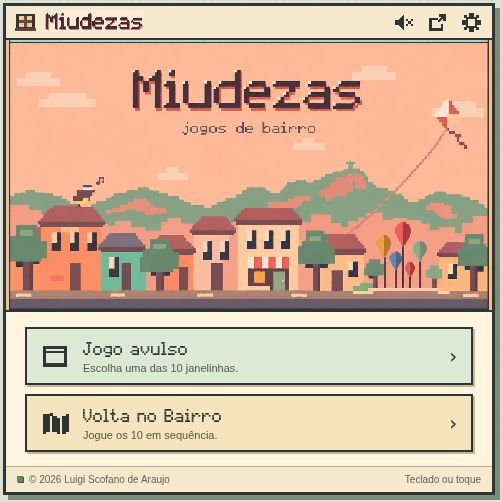
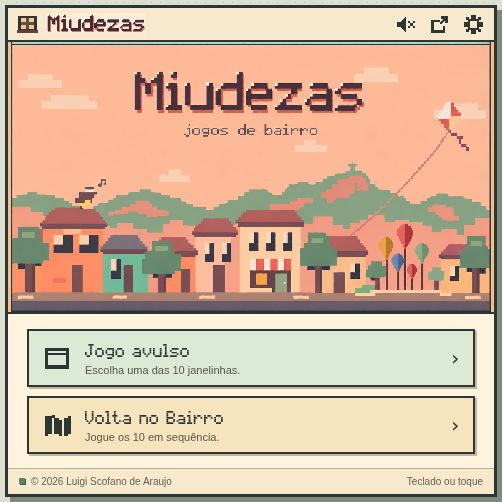
Atualiza captura documental da abertura com a capa publicada

diff --git a/docs/imagens/telas/README.md b/docs/imagens/telas/README.md
@@ -2,7 +2,7 @@
 
 ## Origem
 
-Capturadas em **18 de novembro de 2026**, navegando pela versão pública em [GitHub Pages](https://luigiscofano.github.io/Miudezas/), em navegador Chromium de computador. Foram usados os controles reais da aplicação; não são simulações, montagens ou imagens geradas.
+Capturadas em **18 de novembro de 2026**, com a abertura atualizada em **19 de novembro de 2026**, navegando pela versão pública em [GitHub Pages](https://luigiscofano.github.io/Miudezas/), em navegador Chromium de computador. Foram usados os controles reais da aplicação; não são simulações, montagens ou imagens geradas.
 
 As seis capturas de navegação contêm a janela completa da aplicação, com a engrenagem visível: título, conteúdo, controles e rodapé. O recorte remove somente a margem vazia externa do navegador. O ponteiro foi mantido fora da região capturada. As imagens preservam a apresentação efetivamente exibida, sem retoques.
 
@@ -12,7 +12,7 @@ As seis capturas de navegação contêm a janela completa da aplicação, com a 
 
 | Arquivo | Tela e estado |
 |---|---|
-| [inicio.jpg](inicio.jpg) | Menu inicial com capa, Jogo avulso e Volta no Bairro. |
+| [inicio.jpg](inicio.jpg) | Menu inicial atualizado em 19/11/2026: capa com duas janelas largas na casa laranja, Jogo avulso e Volta no Bairro. |
 | [selecao-jogos.jpg](selecao-jogos.jpg) | Primeira página do catálogo, com seis jogos e seus ícones. |
 | [selecao-niveis.jpg](selecao-niveis.jpg) | Maré Miúda: Sossegado, Animado, Puxado e Caminho Novo. |
 | [partida-mare.jpg](partida-mare.jpg) | Partida real de Maré Miúda, nível Puxado. |
@@ -34,6 +34,8 @@ As três imagens adicionais registram o painel real. `configuracoes.jpg` mostra 
 A captura usa valores restaurados somente no navegador de teste. A atualização documental não modifica as preferências de visitantes. Texto e comportamento foram conferidos em [configuracoes.js](../../../dist/configuracoes.js); o [README principal](../../../README.md#configurações-e-sobre-o-projeto) transcreve o Sobre e explica os controles.
 
 ---
+
+A abertura foi recapturada da versão publicada no commit `3f99adfa02325b7db2ed423255afd73f8f17f4a7`, após recarga sem cache. Mantém o recorte de 502 × 502, a janela inteira e o cursor fora da imagem. As outras capturas continuam sendo as de 18/11. Os READMEs principal, de `dist`, de `docs`, das artes e da capa já referenciam o PNG canônico atualizado e não precisaram duplicá-lo.
 
 ## Como atualizar
 
